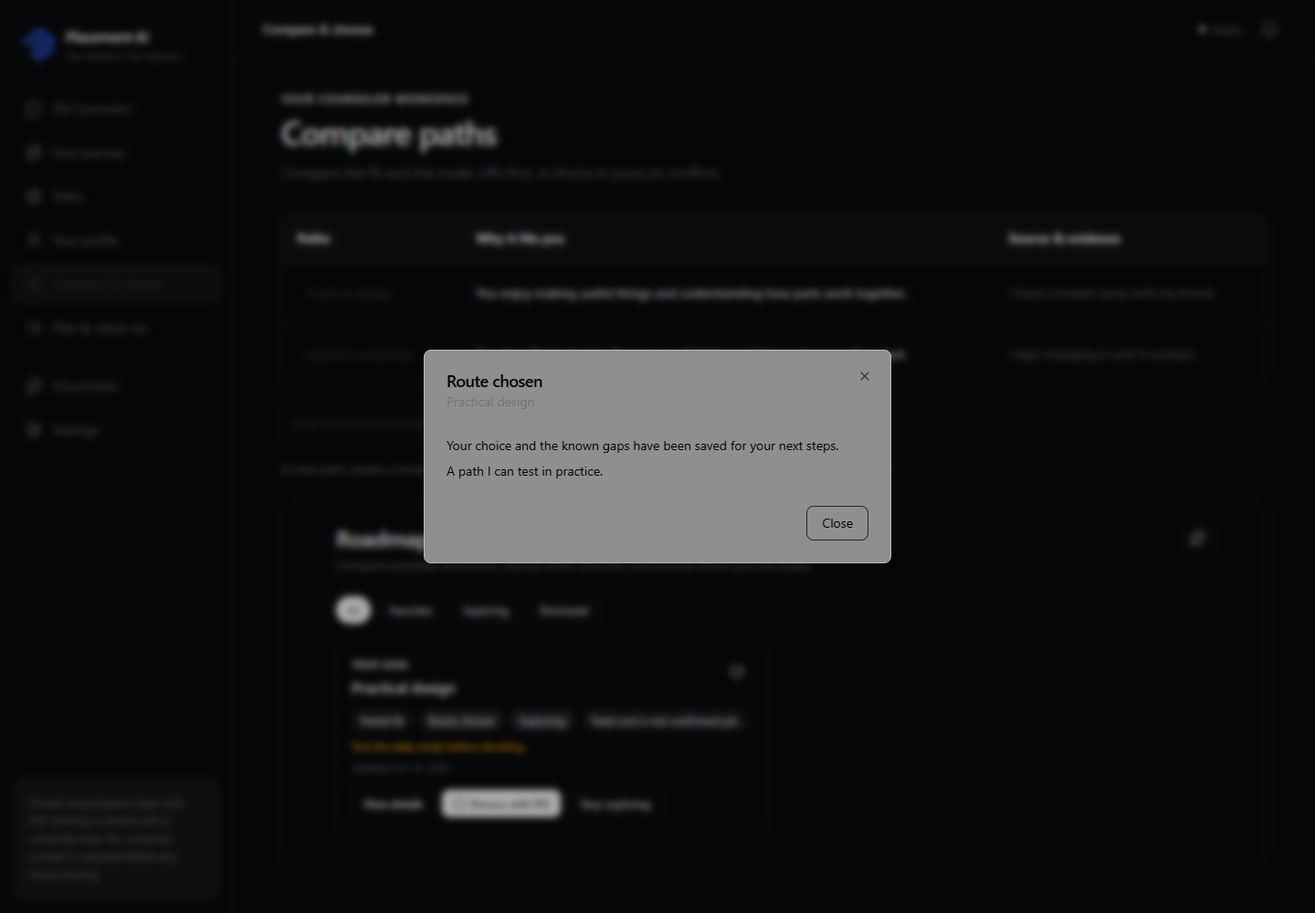
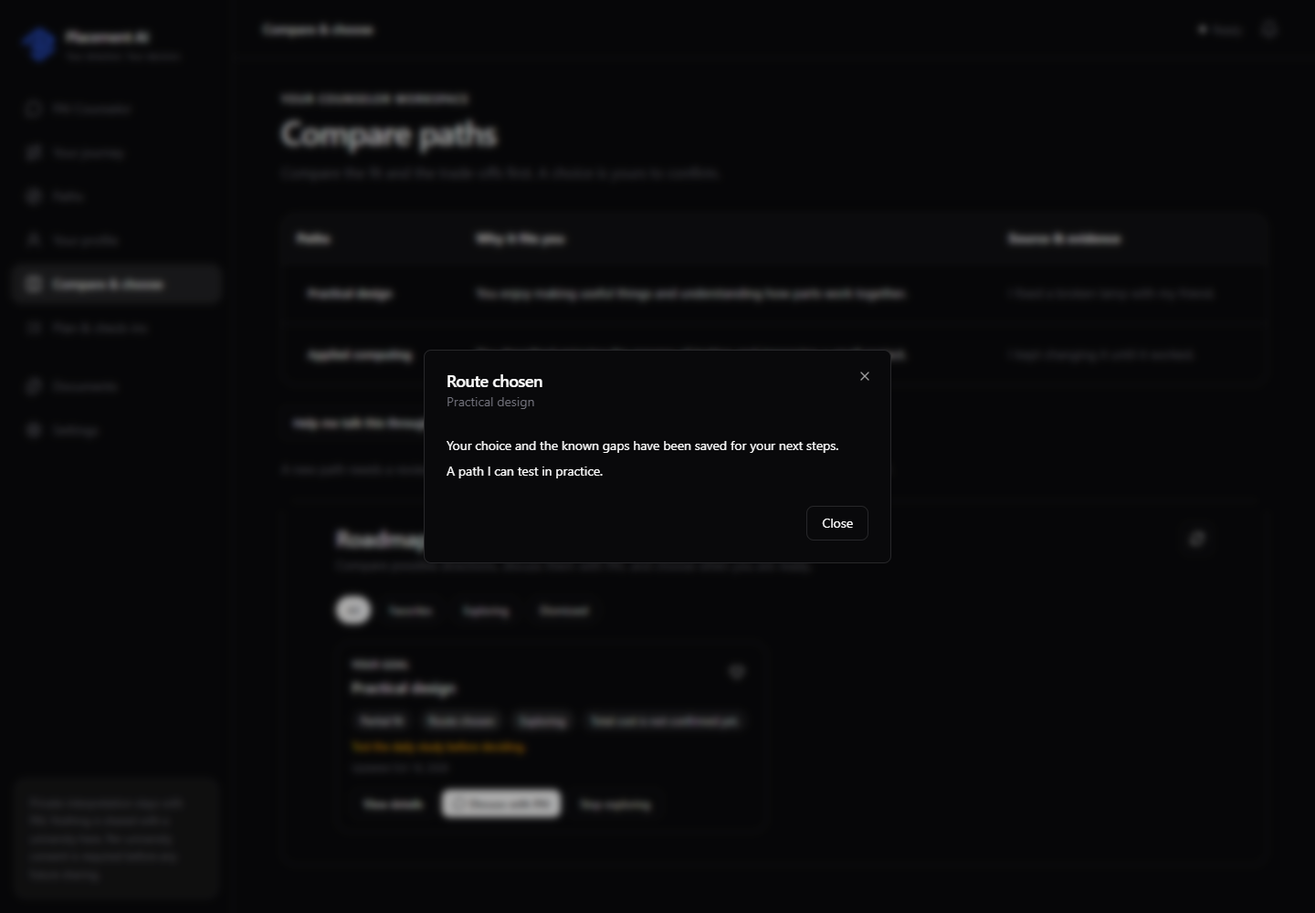
docs: report locked workflow build and offline acceptance results

Changed region(s): [[0.2188, 0.372, 0.6875, 0.62], [0.0, 0.279, 0.125, 0.341], [0.2188, 0.31, 0.3125, 0.341]]

diff --git a/docs/counselor/BUILD_REPORT_V1.md b/docs/counselor/BUILD_REPORT_V1.md
@@ -1,0 +1,238 @@
+# PAI C locked workflow v1 — build report
+
+## Result and scope
+
+Implementation head: **2cc212e**, branch **pai-c**. This report's commit also contains the final screenshot-test adjustment and regenerated screenshots; production code is unchanged from the tested head.
+
+The Counselor-only workspace, evidence review, paths-first workflow, explicit place-search consent and deferred UI cleanup are implemented. **The complete board is not yet production-complete:** the checklist records **21 done, 16 partial, 7 not done** work cards. Missing authoritative data, semantic grounding limits and the joint OS contract are explicit below. Nothing is represented as verified merely because a model produced it.
+
+No live model, search, OCR, voice or other provider API calls were made. Provider spend in this build: **0**. Tests use fake providers and block external socket connections. No database tables were dropped, no migrations were added, and no .env settings were edited. dev and pai-os were not changed.
+
+Sources: [locked workflow](PAI_C_WORKFLOW_LOCK_V1.md), [SPINE](SPINE.md), [Counseling policy](COUNSELING_POLICY.md), and [locked FigJam](https://www.figma.com/board/NjVJfdxERWfRHPycy1wDkF). The autonomous instruction replaced the earlier stop/attempt-limit rules; concrete fixes continued without weakening assertions.
+
+## Commits
+
+| Step | Commit | Main changes / data |
+| --- | --- | --- |
+| Approved OS UI removal | 2be2fee | Nine approved UI files, mounts, navigation and task/workflow UI flags/build arguments. |
+| Approved backend detachment | a1950e5 | Application Workspace/deadline routers and their scheduler blocks detached; transport, models and tables retained. |
+| Phase 2 step 1 | f46e9d7 | Ten-area spine restored; Planner prompt/document synchronized. areas_policy.json and existing coverage data. |
+| Step 2 | f46a39e | Follow thread; fact/story selection; catalog-backed cards; fact_cards.json and action prompt files. |
+| Step 3 | 134dcf8 | Profile confirmation/edit via candidates/reconciler; source-bound evidence labels. |
+| Step 4 | b10b8ae | Grounding guard; season-scoped cache data/expiry; grounding.json and season_policy.json. |
+| Step 5 | 56dcf66 | path.explain workflow; strict explanation; paths/policy.json and explain.md; fixed published-fact lookup to use the actual Opportunity model. |
+| Step 6 | a49802b | program.search workflow; explicit consent, current Mirror/path checks, shown/confirmed eligibility. |
+| Step 7 | 94767d9 | Owner-only health counts and Planner lag; reliability.json. |
+| Phase 3 | e361e7e | Counselor shell and screens, canonical fact removal, public workspace projection, existing reviewed-roadmap/choice flow; workspace copy.json/settings-data.json. |
+| Deferred UI cleanup | 131decb | Twelve unmounted OS UI files removed after importer checks; shared branches retained. |
+| Final engineering review | 2cc212e | Evidence freshness/current facts, pending polling, consent bypass closure, safe owner export, inline cards, public profile selectors, board-supplied entry choices, open-request health counts. |
+| Final verification | This report's commit | Report, SPINE updates, screenshot harness uses real theme provider for the choice dialog; final light/dark captures. |
+
+Final data files also include pai_c/policy/inline_cards.json and pai_c/understanding/profile_sections.json. Catalog content remains data, and no authoritative board/subject or merit threshold was invented. Prompts remain Markdown; runtime/document consistency tests pass.
+
+## Every orange NEW card, sections 00–12
+
+**B/** means backend/app/; **F/** means frontend/. “Done” means implementation and offline regression coverage, not a live quality certification. “Partial” names the missing element. Blocking evidence and safe behavior are detailed in [BLOCKERS](BLOCKERS.md).
+
+Sections **00 and 08 contain no orange work cards** in the inspected board. Card **35:219** is the orange legend, not a feature; it is accounted for here and excluded from the 44-work-card count. The remaining cards are listed individually by Figma node id.
+
+| Board section / node | Card | Status | Commit(s) | Files | Evidence / limitation |
+| --- | --- | --- | --- | --- | --- |
+| 01 What the student sees / `36:204` | Tap cards: level (Matric, O-level, FSc, A-level, other), city, reply language. Nothing else. | **done** | e361e7e, 2cc212e | B/memory/entry_fields.json; F/components/onboarding/onboarding-view.tsx | Four cards; board-provided level catalog plus editable Other. |
+| 01 What the student sees / `36:212` | Inline cards only when useful: tap your board, upload your result card, how sure are you 0-10. | **done** | f46a39e, e361e7e, 2cc212e | B/pai_c/fact_cards.py; F/components/counselor/workspace/{fact-card,inline-card}.tsx | Catalog choices only; absent catalogs use text/upload. Rating is sent only by the student. |
+| 01 What the student sees / `36:240` | Path page: what it is, what you study, a normal work day, skills needed, fit with you, myths vs reality, jobs and future, ways in. | **partial** | 56dcf66, e361e7e, 2cc212e | B/pai_c/paths/explain.py; F/components/counselor/workspace/paths.tsx | All sections render; verified jobs/myths/outlook need a reviewed career-source pack. |
+| 01 What the student sees / `36:248` | Programs for this path: entry rules, merit, fee, scholarships - each with source and date. | **partial** | a49802b, e361e7e, 2cc212e | B/pai_c/paths/programs.py; F/components/counselor/workspace/paths.tsx | Dated sources and verification labels supported; no live search or comprehensive institutional data verified. |
+| 01 What the student sees / `36:252` | Labels: safe / realistic / stretch / not yet - not yet shows the route to get there. | **partial** | a49802b, 2cc212e | B/research/seasons.py; B/pai_c/paths/programs.py | Bands require reviewed seasonal rules; not-yet route requires cited remediation. Unknown stays unknown. |
+| 01 What the student sees / `36:268` | Check-in: how did the test go? A new result updates the profile. | **partial** | e361e7e | F/components/counselor/workspace/decisions.tsx | Check-in opens the same chat with a draft; normal extraction updates facts. No proactive reminder or new OS outcome intake. |
+| 02 One turn - the engine / `36:389` | Grounding guard: no fact about an institution without a source | **partial** | b10b8ae, 2cc212e | B/pai_c/deep/grounding.py; B/pai_c/policy/grounding.json | Declared world claims and numeric assertions checked. Unannotated qualitative institutional claims remain a semantic limitation. |
+| 02 One turn - the engine / `36:429` | Health checks: Planner lag alert, count of every fallback per day | **partial** | 94767d9, e361e7e, 2cc212e | B/pai_c/reliability.py; B/routers/counselor_health.py; F/components/counselor/workspace/shell.tsx | Daily counts and in-app lag alert; no independent daily alert delivery. |
+| 03 Understanding spine / `37:396` | Tap cards: level, board, subjects, 0-10 rating | **done** | f46a39e, 2cc212e | B/pai_c/policy/fact_cards.json; F/components/counselor/workspace/{fact-card,inline-card}.tsx | No generated catalogs; approved text/upload fallback and Other review metadata. |
+| 03 Understanding spine / `37:400` | Upload: result card, transcript, certificates | **done** | f46e9d7, e361e7e | B/documents/handlers.py (existing); F/components/counselor/workspace/fact-card.tsx | Reuses Documents and validated document extraction; no live OCR call. |
+| 03 Understanding spine / `37:436` | 9  Goals and dreams - what they say they want, and whose wish it is.  Min 1 | **done** | f46e9d7, 2cc212e | B/pai_c/policy/areas_policy.json; B/pai_c/planner/prompts/planner.md; B/pai_c/understanding/profile_sections.json | Goals and whose wish included in the same evidence spine. |
+| 03 Understanding spine / `37:440` | 10  Options they know - fields and careers they know, myths they believe.  Min 1 | **done** | f46e9d7, 2cc212e | B/pai_c/policy/areas_policy.json; B/pai_c/understanding/profile_sections.json | Known options/myths retained with evidence; not treated as verified world facts. |
+| 04 Evidence model / `37:527` | Profile card: the student sees each fact and can confirm or edit it | **done** | 134dcf8, e361e7e | B/routers/counselor_profile_cards.py; B/pai_c/memory.py; F/components/counselor/workspace/profile.tsx | Canonical fact/record Confirm/Edit/Remove creates candidates; digest check and reconciliation preserve history. |
+| 04 Evidence model / `37:531` | Merit and eligibility numbers only from shown or confirmed facts | **done** | 134dcf8, a49802b, 2cc212e | B/memory/evidence.py; B/pai_c/paths/programs.py | Stated marks excluded from numerical eligibility. Confirmed means student-reviewed, not external credential verification. |
+| 05 Next move / `37:614` | Follow their thread - reflect what it means to them | **done** | f46a39e | B/pai_c/policy/controller.py; B/pai_c/policy/decision_table.json | Care and persisted requests retain priority over following the student's thread. |
+| 05 Next move / `37:646` | A fact or a story? | **done** | f46a39e | B/pai_c/policy/decision_table.json; B/pai_c/fact_cards.py | Fact collection separated from one-question story exploration. |
+| 05 Next move / `37:650` | Fact - tap card or upload invite | **done** | f46a39e, e361e7e | B/pai_c/policy/fact_cards.json; F/components/counselor/workspace/fact-card.tsx | Exact-quote prefill requires confirmation; no model-created choices. |
+| 06 Counseling stages / `38:611` | Where to study | **done** | a49802b, e361e7e, 2cc212e | B/routers/counselor_paths.py; F/components/counselor/workspace/paths.tsx | Stage H only from a completed current-Mirror path plus explicit consent; GET does not research. |
+| 07 Failures / `38:740` | Lag alert when the Planner falls behind | **done** | 94767d9, e361e7e | B/pai_c/reliability.json; F/components/counselor/workspace/shell.tsx | Private workspace-scoped lag state; data-defined threshold. |
+| 07 Failures / `38:804` | Daily health check: count of every fallback, Planner lag, open requests, failed jobs - so problems show up before students feel them | **partial** | 94767d9, 2cc212e | B/pai_c/reliability.py; B/routers/counselor_health.py | Counts fallback events, lag, open requests and failed jobs. No independent daily scheduled notification. |
+| 09 World knowledge / `39:850` | Entry and merit rules for programs a student is looking at - checked once per season | **partial** | b10b8ae, a49802b | B/research/{seasons.py,season_policy.json}; B/research/requirements.py | Cache and seasonal expiry implemented; authoritative seasonal rule pack is empty. |
+| 09 World knowledge / `39:854` | Merit calculator with the student's shown or confirmed marks | **partial** | a49802b, 2cc212e | B/pai_c/paths/programs.py; B/plugins/gap_assessment/__init__.py (reused) | Shown/confirmed threshold comparisons and reviewed bands; no invented weighted merit formula or admission probability. |
+| 09 World knowledge / `39:858` | Reply has an institution fact without a source? | **partial** | b10b8ae, 2cc212e | B/pai_c/deep/grounding.py | Same deterministic limitation as 36:389; no additional model verifier added. |
+| 10 Paths to a decision / `39:971` | What it is and what you study | **done** | 56dcf66, e361e7e | B/pai_c/paths/{explain.py,explain.md}; F/components/counselor/workspace/paths.tsx | Strict explanation schema; generic description follows language policy. |
+| 10 Paths to a decision / `39:975` | A normal work day and the skills it needs | **done** | 56dcf66, e361e7e | B/pai_c/paths/explain.py; F/components/counselor/workspace/paths.tsx | Work-day and skills sections; actual prose quality has not been live-evaluated. |
+| 10 Paths to a decision / `39:979` | How it fits you - evidence for and against | **done** | 56dcf66, e361e7e | B/pai_c/paths/explain.py; F/components/counselor/workspace/paths.tsx | Fit quotes must occur in supplied student evidence; for and against both have a home. |
+| 10 Paths to a decision / `39:983` | Myths vs reality, jobs and future | **partial** | 56dcf66, 2cc212e | B/pai_c/paths/{explain.py,policy.json} | SourceVerifier and current sourced claims; missing reviewed domains prevent verified jobs/myths/outlook. |
+| 10 Paths to a decision / `39:987` | Ways in: the main route and other routes | **done** | 56dcf66, e361e7e | B/pai_c/paths/explain.py; F/components/counselor/workspace/paths.tsx | General routes and try-it supported; institutional entry requirements belong to H. |
+| 10 Paths to a decision / `39:999` | Programs for this path - search, source check, cache | **done** | a49802b, 2cc212e | B/plugins/program_search/__init__.py; B/research/gateway.py; B/routers/counselor_paths.py | Existing discovery/research/cache/verifier reused; expired results require another explicit search. |
+| 10 Paths to a decision / `39:1003` | Eligible with shown or confirmed marks? | **done** | a49802b, 2cc212e | B/pai_c/paths/programs.py | Current workspace and current shown/confirmed facts re-read on results; ambiguous comparisons fail closed. |
+| 10 Paths to a decision / `39:1007` | Safe / realistic / stretch - with fee and scholarships | **partial** | a49802b, e361e7e | B/research/season_policy.json; F/components/counselor/workspace/paths.tsx | Fee/scholarship source/date rendering and bands supported; reviewed seasonal data absent. |
+| 10 Paths to a decision / `39:1011` | Not yet - the route to become eligible | **partial** | a49802b | B/pai_c/paths/programs.py; B/plugins/gap_assessment/__init__.py (reused) | Shows only cited remediation. Missing remediation cannot safely produce a route. |
+| 11 PAI C and PAI OS contract / `41:1029` | Planner turns outcomes into shown evidence; check-in with the student (stage K) | **not done** | 2cc212e (blocker documentation) | docs/counselor/BLOCKERS.md | New OS outcome-to-shown contract requires joint schema/signoff; existing extraction unchanged. |
+| 11 PAI C and PAI OS contract / `41:997` | Add to the record: chosen path and chosen place as separate fields, reasons with evidence, and an execution summary (limits, strengths, family concerns, certainty, language, check-in rhythm) | **not done** | 2cc212e (blocker documentation) | docs/counselor/BLOCKERS.md | Existing decision records retained; no unapproved chosen-path/place schema extension. |
+| 11 PAI C and PAI OS contract / `41:1009` | OS becomes a request source: typed requests (question, document, approval, decision), reason, urgency, and an answered event back to OS | **not done** | 2cc212e (blocker documentation) | docs/counselor/BLOCKERS.md | Existing requests/escalations retained; no new OS typed-request/answer-event protocol. |
+| 11 PAI C and PAI OS contract / `41:1025` | 3 UPDATES  OS to C - authenticated event intake, versioned event types, idempotent (same event never counted twice) | **not done** | 2cc212e (blocker documentation) | docs/counselor/BLOCKERS.md | No new versioned OS update intake without joint agreement. |
+| 11 PAI C and PAI OS contract / `41:1037` | Typed reason: not eligible, deadline passed, cost, changed mind, other | **not done** | 2cc212e (blocker documentation) | docs/counselor/BLOCKERS.md | Typed OS reason protocol deferred with the shared contract. |
+| 11 PAI C and PAI OS contract / `41:1065` | Contract rules: versioned schema (v1, v2 only with a migration path) / service-to-service token on every call / idempotency key on every event / contract tests on both sides that fail when one side breaks the other / no student private data in OS logs / changes only with both developers signing off | **partial** | 2cc212e (blocker documentation) | docs/counselor/BLOCKERS.md; existing contract/security tests | Existing token/isolation/idempotency contract preserved; new bilateral versioned tests need the OS developer. |
+| 12 Behind the counselor - Operator and background work / `43:1112` | path.explain | **done** | 56dcf66 | B/plugins/path_explainer/__init__.py; B/research/gateway.py | path.explain is an installed workflow owner using existing durable operator.run. |
+| 12 Behind the counselor - Operator and background work / `43:1128` | program.search | **done** | a49802b | B/plugins/program_search/__init__.py; B/research/gateway.py | program.search uses existing Task Runtime and Operator workflow mode. |
+| 12 Behind the counselor - Operator and background work / `43:1176` | contract.intake | **not done** | 2cc212e (blocker documentation) | docs/counselor/BLOCKERS.md | No duplicate or guessed contract.intake capability. |
+| 12 Behind the counselor - Operator and background work / `43:1116` | Operator in workflow mode: model for general understanding + research.run for jobs and future (cache, web.search, web.fetch, SourceVerifier) | **partial** | 56dcf66 | B/pai_c/paths/explain.py; B/plugins/path_explainer/__init__.py | Workflow/model/cache/tools/verifier wired; real verified career-source coverage unavailable. |
+| 12 Behind the counselor - Operator and background work / `43:1132` | Operator: research.run + requirements plugin + per-season entry and merit rules + merit calculator | **partial** | a49802b, 2cc212e | B/plugins/program_search/__init__.py; B/pai_c/paths/programs.py; B/research/seasons.py | Research/requirements workflow works offline; authoritative season packs and merit formula data remain absent. |
+| 12 Behind the counselor - Operator and background work / `43:1180` | Authenticated, idempotent intake; Planner turns outcomes into shown evidence | **not done** | 2cc212e (blocker documentation) | docs/counselor/BLOCKERS.md | Same joint OS intake blocker; existing contract is preserved. |
+
+### Important boundaries
+
+- One conversation is retained. Voice and text still enter the existing orchestrator; this build does not create another counselor, profile, queue or inference client.
+- Mirror confirmation materializes paths without starting institutional research. Path explanation is G; H requires a completed current path and an explicit student POST consent.
+- Repeated requests reuse durable runs. A changed route or expired evidence requires explicit refresh; GET never starts research. Existing Mirror budgets apply.
+- Program results are rechecked against current workspace sources and current shown/confirmed student values. Meeting entry requirements is **eligible**, not an admission probability.
+- The general explanation is model prose. Strict schemas and exact student evidence checks do not prove every qualitative claim true, nor universally detect an unmentioned institution name. Unsupported structured facts are withheld.
+- SourceVerifier and the existing research family are reused. No new capability named research.run was created; existing research-family ownership remains.
+- Profile review controls apply to canonical Vault facts/records. Interpretation chips remain evidence-backed projections; their corrections go through the conversation and Analyst ownership, not direct Truth Map editing.
+- Certainty visualization uses durable Mirror before/after feedback. It does not fabricate a continuous time series from missing measurements.
+- No university-sharing flow is enabled. A later sharing flow needs exact-data, per-university consent.
+
+## Phase 3 screens and screenshots
+
+Screenshots use real production components with synthetic, network-blocked backend/workspace adapters. They are **not** screenshots of a live student account. There are **32 desktop captures plus one mobile capture**. Light/dark theme tokens, accessible controls and mobile overflow were checked; existing unit snapshots remain.
+
+| Screen / stage | Light | Dark |
+| --- | --- | --- |
+| Onboarding (A) | [Light](screenshots/onboarding-light.png) | [Dark](screenshots/onboarding-dark.png) |
+| Chat (B-D) | [Light](screenshots/chat-light.png) | [Dark](screenshots/chat-dark.png) |
+| First picture (C) | [Light](screenshots/first-picture-light.png) | [Dark](screenshots/first-picture-dark.png) |
+| Fact / upload invitation | [Light](screenshots/fact-card-light.png) | [Dark](screenshots/fact-card-dark.png) |
+| Certainty rating | [Light](screenshots/rating-light.png) | [Dark](screenshots/rating-dark.png) |
+| Mirror / agree-change (E) | [Light](screenshots/mirror-light.png) | [Dark](screenshots/mirror-dark.png) |
+| Journey (A-K) | [Light](screenshots/journey-light.png) | [Dark](screenshots/journey-dark.png) |
+| Paths (F) | [Light](screenshots/paths-light.png) | [Dark](screenshots/paths-dark.png) |
+| Path explanation / try-it (G) | [Light](screenshots/path-light.png) | [Dark](screenshots/path-dark.png) |
+| Where to study / consent (H) | [Light](screenshots/programs-light.png) | [Dark](screenshots/programs-dark.png) |
+| Compare (I) | [Light](screenshots/compare-light.png) | [Dark](screenshots/compare-dark.png) |
+| Explicit choice confirmation (I) | [Light](screenshots/decision-light.png) | [Dark](screenshots/decision-dark.png) |
+| Plan and check-ins (J-K) | [Light](screenshots/plan-light.png) | [Dark](screenshots/plan-dark.png) |
+| Living profile | [Light](screenshots/profile-light.png) | [Dark](screenshots/profile-dark.png) |
+| Documents | [Light](screenshots/documents-light.png) | [Dark](screenshots/documents-dark.png) |
+| Settings / privacy | [Light](screenshots/settings-light.png) | [Dark](screenshots/settings-dark.png) |
+
+[Mobile profile, dark](screenshots/profile-mobile-dark.png).
+
+### Routes, components and APIs
+
+All workspace pages reuse the existing /[workspaceId] route and query navigation, rather than adding a second app shell:
+
+| Surface | Query / component | API path reused or added |
+| --- | --- | --- |
+| Chat, inline cards, Mirror | view=threads; existing ChatView and Mirror card, workspace/inline-card.tsx and fact-card.tsx | Existing events, voice, Mirror confirm/edit/feedback; added /v1/counselor/fact-cards. |
+| Journey | view=journey; workspace/journey.tsx | Added GET /v1/counselor/workspace; links to durable conversation event ids and older history. |
+| Paths / explanation | view=paths, path=<id>; workspace/paths.tsx | Existing possibilities save/dismiss; added GET /v1/counselor/paths/{id}, POST /explore. |
+| Where to study | view=paths&path=<id>&stage=H | Added GET/POST /v1/counselor/paths/{id}/programs; POST requires explore_places consent. |
+| Compare / choose | view=compare; workspace/decisions.tsx, existing RoadmapsView | Added path-scoped POST /roadmap after completed program check; existing roadmap choice-token and choose endpoints. |
+| Plan / check-ins | view=plan; workspace/decisions.tsx | Existing chosen roadmaps; check-in creates a chat draft, not an automatic message or OS task. |
+| Profile | view=profile; workspace/profile.tsx | Existing student profile; added profile-cards read/review and public workspace projection. Confirm/Edit/Remove use the reconciler. |
+| Documents | view=files; existing document components | Existing authenticated files/document pipeline; no alternate uploader or store. |
+| Settings | view=settings; workspace/settings.tsx | Existing language/preferences, notification center and integration settings; added owner-only GET /v1/counselor/export; existing explicit account deletion. |
+| Reliability | workspace/shell.tsx | Added owner-only GET /v1/counselor/health; public liveness unchanged. |
+
+All new endpoint families are exercised by the existing P0 anonymous/cross-workspace security matrix. Export includes student-visible conversation/profile/paths/roadmaps/confirmed picture/ratings/document metadata; original files remain downloadable in Documents. Internal notes, legacy archives and credentials are excluded.
+
+Empty, pending/loading, error and missing-evidence states are present. Pending path/program jobs poll only their read endpoints. No fake backend data is mounted in production routes.
+
+## Tests and verification
+
+Final production-code head tested: **2cc212e**.
+
+| Check | Result |
+| --- | --- |
+| Full backend, guided | **1,324 passed, 3 skipped, 8 subtests passed**, 524.58 seconds |
+| Full backend, strict | **1,324 passed, 3 skipped, 8 subtests passed**, 523.17 seconds |
+| Production-only security tests | **3 passed, 4 subtests passed**, 1.77 seconds |
+| Full frontend | **60 passed in 18 files**, 74.69 seconds |
+| Frontend production build | **PASS**; TypeScript, lint/build checks and static page generation completed |
+| Import every app module | **285/285 imported**, no unresolved dynamic imports |
+| Architecture / PAI OS contracts | **PASS**, included in both full backend suites; existing gateway, runtime, memory, Messenger, orchestrator, research and escalation contracts retained |
+| Offline browser A–K UI flow | **PASS**; onboarding, Mirror feedback, Explore, explicit H consent, roadmap preparation/choice, plan and check-in draft |
+| Browser screenshots | **32 desktop + 1 mobile**; both themes; no page errors; mobile profile no horizontal overflow |
+| Live providers / live conversations | **Not run**, as required |
+
+The three default-suite skips are the production-only security class, run separately above. Its first invocation correctly refused development CORS settings; the separate test was rerun with its required public production origin, without changing code or .env. Three SQLAlchemy warnings concern SQLite reflection of an existing expression index in migration tests; neither suite failed. The test-only Vite preview also warns about the existing highlight.js CSS import order; the production build passes and browser captures have no page errors.
+
+### Before / intermediate / after
+
+- Before the approved removal: 1,240 backend tests per mode; restored step 1: 1,260 per mode and 41 frontend tests.
+- Step 2: 1,271 backend tests per mode. Step 3: 1,279 per mode.
+- Step 4 exposed an incorrect published-fact lookup (1,283 passed, 1 failed); fixed against the actual model in 56dcf66, not bypassed.
+- Steps 5–7 integrated checkpoint: 1,302 passed per mode, 3 skips, 8 subtests.
+- Phase 3 checkpoint: 1,313 passed per mode, 3 skips, 8 subtests.
+- Final: 1,324 per mode and 60 frontend tests. These checkpoints do not claim an independent full-suite run at every historical intermediate commit.
+
+### Coverage and test changes
+
+| Concern | Evidence |
+| --- | --- |
+| Empty/contradictory profile, retired items, quoted facts, mixed-language input | Existing policy/Truth Map tests; test_spine_areas.py, test_next_move.py, test_profile_evidence.py |
+| Distress/request interruption and one-question behavior | Existing safety/guided/strict/request tests plus new thread/card priority cases |
+| Timeout, invalid JSON, duplicate work and return visits | Existing deep-turn/session/task tests; new reliability, path/program run reuse and freshness cases |
+| No source, outdated source, ambiguous data, not eligible yet | test_world_knowledge.py, test_path_explanation.py, test_program_search.py |
+| Family versus own wish, rejecting paths | Existing possibility lifecycle/Mirror/planner tests; new evidence-only profile projection |
+| Profile review/erasure/export ownership | test_profile_evidence.py, test_counselor_workspace.py, existing P0/record/security/export tests |
+| Cards, coverage, profile, paths, settings, themes | One new feature test file each under frontend/components/counselor/workspace; retained existing frontend tests |
+| A–K and consent boundaries | frontend/tests/preview/workspace.e2e.cjs with explicit network blocking and synthetic fixtures |
+
+Existing test changes match intended behavior: ten areas instead of eight; no research on Mirror confirmation; valid auth fixtures now contain required network/UUID/const values; durable fixture foreign keys are present; profile assertions cover the new separate sections. The choice-dialog test selects the footer Close explicitly because its X control has the same accessible name. The final capture change uses the actual theme provider and waits for dialog animation. No security/contract expectation was weakened and no failing assertion was deleted.
+
+## Deferred UI cleanup and shared code kept
+
+[UI_CLEANUP_V1.md](UI_CLEANUP_V1.md) contains commands and pre-deletion importer evidence. Commit 131decb deleted 12 files: monitor grid/overlay/tile, agent profile panel, thread list, routines view/list/format helper, and knowledge view/list/editor/utils. **2,954 file lines plus six ListPanel branch/import lines** were removed.
+
+Kept because shared or still imported: wrapper/context/API/notifications, AppSidebar/MobileHeader, CreateRoutineDialog, orchestration/sharing controls, Browser backend, integration relay/settings, generic Operator, workflow advancement, tasks.list/tasks.create, shared tools/plugins, auth/workspaces/onboarding, memory/Vault/reconciler/documents, gateways/Task Runtime, decision records/student requests/escalations/service token.
+
+The import graph still reaches services.workflow from Counselor dependencies; it is not safe to delete. Detached application/deadline packages were not deleted. Tables for a separate approved migration review: pai_saved_institutions, pai_application_plans, pai_application_requirements, pai_application_routines, pai_student_deadlines, pai_deadline_settings. **No drop was performed.**
+
+## Decisions and blockers summary
+
+[DECISIONS.md](DECISIONS.md):
+
+1. Catalog-only factual cards, editable Other, exact student quote for prefill, explicit confirmation.
+2. Confirmation is value-bound and audited; editing returns to stated; removal reconciles and preserves history.
+3. Paths before places; explicit program-search consent; current evidence revalidated on reads; no GET-triggered research.
+4. Eligibility is distinct from admission bands; no guessed equivalence, threshold or probability.
+5. Existing shell/services/contracts reused. Check-ins are conversation drafts; no new OS scheduler.
+6. Reliability is private daily aggregation plus in-app lag. Export is public student data only.
+7. Board-supplied entry choices are data; family/interpretation remain safe projections.
+
+[BLOCKERS.md](BLOCKERS.md):
+
+- Reviewed board/subject catalogs absent: editable text/upload remains.
+- Reviewed occupational domains and seasonal merit packs absent: verified world sections/bands are unavailable rather than invented. Weighted merit formula data is not supplied.
+- Deterministic grounding cannot prove all free prose true or detect every unsourced qualitative institutional claim.
+- Exact fact/rule identity or unit ambiguities stay unknown.
+- Board 11/contract.intake needs bilateral versioned schema agreement and both developers' tests. Existing contract remains; no pai-os edits.
+- No independent daily alert transport, no proactive check-in scheduler, no new university-sharing flow.
+- No live Supabase, microphone, OCR, search-provider or conversation-quality validation was authorized.
+
+## Founder local test
+
+From the existing **workspace** folder, using the founder's existing ignored configuration:
+
+~~~powershell
+git checkout pai-c
+git pull --ff-only origin pai-c
+docker compose --env-file .env -p pai-c-test2 -f docker-compose.prod.yml -f docker-compose.local.yml up --build -d
+~~~
+
+Open **http://localhost:3000**. If another Compose project owns ports 3000/8000/8080, stop that project first; do not remove its volumes.
+
+1. Sign in; a new account sees name, level, city and reply-language entry cards.
+2. Use Counselor; try a factual reply, a document invitation, a correction and a request. Profile should show sources and review controls.
+3. Confirm/edit the Mirror and submit feedback. Inspect Journey and Profile.
+4. Explore a path. Its page has general explanation, evidence for/against and a try-it; programs require the separate Where to study consent.
+5. Missing verified sources/rules show missing information. They must not turn into invented eligibility or admission chances.
+6. Where a verified program check supports a reviewed roadmap, prepare it and use the existing explicit choice dialog. Open Plan/check-in; the draft remains yours to send.
+7. Check light/dark, phone layout, export and privacy settings. Account deletion has a separate explicit destructive confirmation.
+
+The stack was **not started as part of this autonomous verification**, to avoid waking real configured provider jobs. The command above starts normal founder use, which can incur the founder's configured provider costs. The offline test preview is not a substitute for that live acceptance test.
+

diff --git a/docs/counselor/SPINE.md b/docs/counselor/SPINE.md
@@ -2177,3 +2177,53 @@ guard requires exact current sourced assertions, adds date/link and removes
 unsupported claims/numbers with a checking response. Student numbers remain.
 Both runtime prompts and their documented copies are synchronized. New tests
 are in test_world_knowledge.py; remaining semantic limits are in BLOCKERS.md.
+
+## Locked workflow Phase 2, steps 5–7 and Phase 3
+
+The later autonomous instruction superseded the historical two-attempt/stop
+rule above. Clear implementation and fixture defects were fixed; unresolved
+product/deployment limitations are recorded in BLOCKERS.md and DECISIONS.md.
+
+| Trigger / reader | Owner / path | Boundary |
+| --- | --- | --- |
+| Mirror confirmation | Existing Mirror/possibility service | Materializes paths; no institutional research on confirmation. |
+| Explore a path | Research Gateway -> durable operator.run -> path.explain | Model Gateway, existing web tools, SourceVerifier; exact student fit evidence; no verified world claims without sources. |
+| Explicit Where to study consent | Research Gateway -> program.search -> program.discover/program.research | Completed current-Mirror path, student destination evidence, existing per-Mirror budget and dedupe. |
+| Program results read | RequirementStore + current shown/confirmed profile | Rechecks source freshness and student evidence; unknown comparisons stay unknown; admission bands require reviewed seasonal data. |
+| Prepare reviewed roadmap | Path-scoped router -> existing roadmap builder | Completed program check and explicit consent; existing choice token remains separate. |
+| Profile Confirm/Edit/Remove | MemoryService -> candidate -> reconciler | Value digest, idempotency, ownership and history; no direct canonical table edits by the frontend. |
+| Public profile / export | MemoryService projections + existing serializers/redactor | Excludes private interpretation/archives/credentials; export is read-only and owner-only. |
+| Reliability UI | Owner-only counselor/health | Existing durable decisions/jobs provide daily fallback, backlog, open-request and failed-job counts; no model ping. |
+| Check-in | Existing chat draft -> normal orchestrator | No auto-send, new queue or OS reminder scheduler. |
+
+Added data: paths/policy.json, reliability.json, policy/inline_cards.json,
+understanding/profile_sections.json and frontend workspace copy/settings data.
+The entry-level catalog supplied by the board is in memory/entry_fields.json;
+Other is editable. Missing board/subject catalogs use text/upload, never invented
+options. The seasonal rules and reviewed occupational-source packs have no
+invented authoritative entries. See BUILD_REPORT_V1.md for partial board items.
+
+The frontend mounts Counselor, Journey, Paths, Profile, Compare, Plan, Documents,
+Settings and the existing central notifications. Existing integration settings
+remain. It reuses auth/workspaces, chat/voice, files, roadmap choice and deletion
+contracts. The exported data and all new routes are workspace-scoped.
+
+The Counselor's normal foreground model-call architecture is unchanged by this
+build; the grounding guard, fact cards, profile review and reliability reads add
+no model calls. Analyst/session/extraction cadence remains unchanged. Path
+explanation adds background workflow calls only on explicit Explore; program
+search reuses the existing research family only after stage-H consent. Existing
+retry limits and usage accounting remain. No live provider calls verified these
+workflows in this run.
+
+Deferred UI cleanup (131decb): twelve no-longer-imported files removed, with
+evidence in UI_CLEANUP_V1.md. Shared controls/services and tasks tools remain.
+New bilateral OS intake/outcome contracts are blocked on joint agreement; no
+tables or shared KEEP code were deleted.
+
+Final production-code head 2cc212e: backend guided and strict each **1324 passed,
+3 skipped, 8 subtests**; the skipped production class separately **3 passed,
+4 subtests**. Frontend **60 passed / 18 files**, production build passed.
+**285/285** app modules imported. Network-blocked browser A–K UI replay passed,
+with 32 light/dark desktop captures plus one mobile capture. Full results,
+limitations, every orange board card and founder command: BUILD_REPORT_V1.md.

diff --git a/docs/counselor/README.md b/docs/counselor/README.md
@@ -10,6 +10,9 @@ Work in `workspace` on branch `pai-c`. `pai-os` is the PAI OS developer's branch
 5. `SPINE.md` - how the code is built (services, jobs, policy modes)
 
 ## Working files
+- `BUILD_REPORT_V1.md` - current locked-workflow implementation, card checklist, screenshots, tests and founder start command
+- `DECISIONS.md`, `BLOCKERS.md` - implementation choices and safely unavailable/deferred items
+- `UI_CLEANUP_V1.md` - importer evidence for the approved deferred UI deletion
 - `CLEANUP_AUDIT.md` - starting point for removing PAI OS from `pai-c`
 - `OS_REMOVAL_AUDIT.md` - current dependency/ownership inventory; deletion requires approval
 - `COUNSELOR_V3_PROMPTS.md` - copy of the runtime prompts; tests check it matches the prompt files
